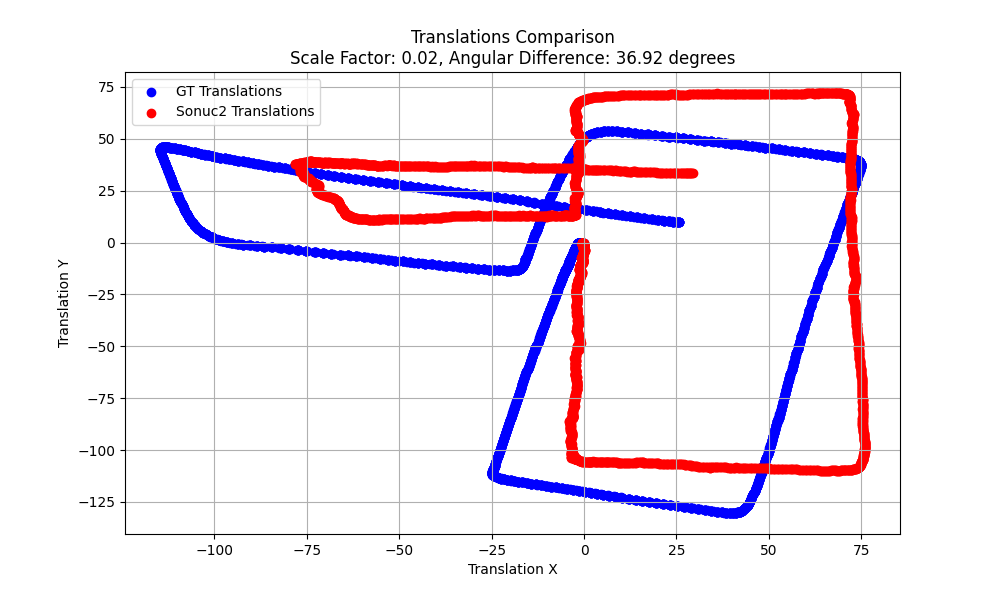
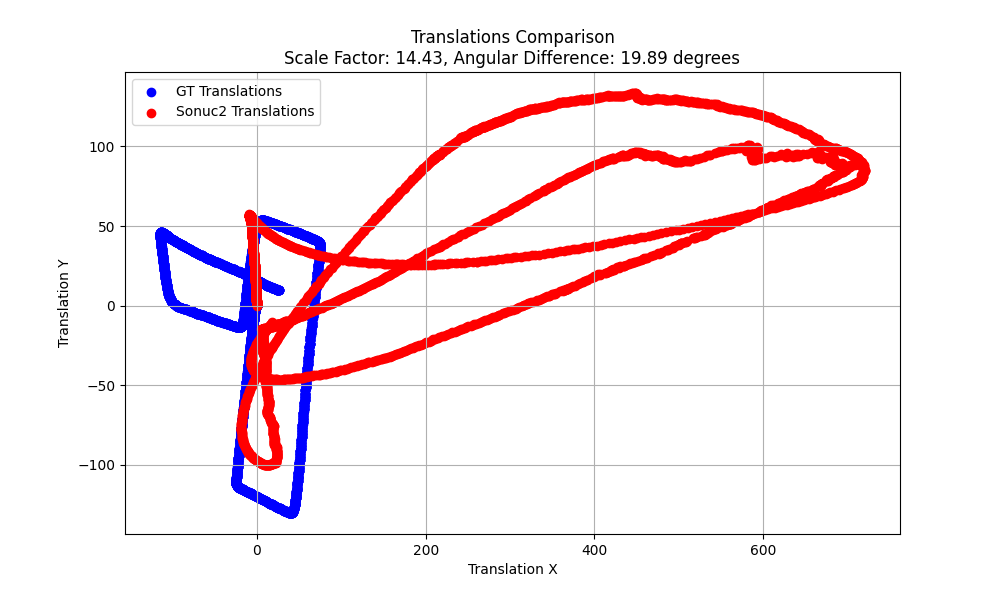
..

diff --git a/Class/Positioning.py b/Class/Positioning.py
@@ -1,21 +1,26 @@
-import os
-import time
 import cv2
 import numpy as np
-
+import joblib
 
 class CameraMovementTracker:
-    def __init__(
-            self, current_position=np.array([0.0, 0.0])):
+    def __init__(self, model_x_path='model_x.pkl', model_y_path='model_y.pkl', current_position=np.array([0.0, 0.0])):
         self.orb = cv2.ORB.create()
         self.positions = np.array([0.0, 0.0])
         self.current_position = current_position
-        self.current_angle = 39.0
+        self.current_angle = 0.0
         self.is_first_frame = True
+
+        # Model yükleme
+        self.model_x = joblib.load(model_x_path)
+        self.model_y = joblib.load(model_y_path)
+
+        self.prev_des = None
+        self.prev_kp = None
 
     def process_frame(self, frame):
         gray = cv2.cvtColor(frame, cv2.COLOR_BGR2GRAY)
         kp2, des2 = self.orb.detectAndCompute(gray, None)
+
         if hasattr(self, 'prev_des') and self.prev_des is not None:
             bf = cv2.BFMatcher(cv2.NORM_HAMMING, crossCheck=True)
             matches = bf.match(self.prev_des, des2)
@@ -34,18 +39,26 @@ class CameraMovementTracker:
                     angle_rad = np.arctan2(M[1, 0], M[0, 0])
                     self.current_angle += np.degrees(angle_rad)
 
-                    # Pozisyonları güncelle
-                    self.positions = ((self.current_position.copy() * np.array([-1, -1])) / 45.20138768)
+                    # Model tahmini
+                    predicted = self._predict_position(self.current_position)
+                    self.positions = predicted
                 else:
-                    self.positions = (self.current_position.copy() * np.array([-1, -1]) / 45.20138768)
+                    self.positions = self._predict_position(self.current_position)
             else:
-                self.positions = (self.current_position.copy() * np.array([-1, -1]) / 45.20138768)
+                self.positions = self._predict_position(self.current_position)
         else:
             self.positions = np.array([0.0, 0.0])
 
         self.prev_des = des2
         self.prev_kp = kp2
         self.is_first_frame = False
+
+    def _predict_position(self, position):
+        # Model tahmini
+        position_array = np.array([position[0], position[1]]).reshape(1, -1)
+        pred_x = self.model_x.predict(position_array)[0]
+        pred_y = self.model_y.predict(position_array)[0]
+        return np.array([pred_x, pred_y])
 
     def get_positions(self):
         if self.is_first_frame:

diff --git a/Regresyon.py b/Regresyon.py
@@ -1,0 +1,65 @@
+import pandas as pd
+import numpy as np
+from sklearn.preprocessing import PolynomialFeatures
+from sklearn.linear_model import LinearRegression
+from sklearn.pipeline import make_pipeline
+from sklearn.metrics import mean_squared_error
+import joblib  # veya import pickle
+
+# CSV dosyasını okuma (drone verisi)
+drone_data = pd.read_csv('data/GT_Translations.csv')
+
+# TXT dosyasını okuma (algoritma çıktısı)
+alg_data = []
+with open('data/Sonuc2.txt', 'r') as file:
+    lines = file.readlines()
+    for line in lines:
+        line = line.strip().strip('[]')
+        try:
+            parts = line.split(',')
+            tx = float(parts[0])
+            ty = float(parts[1].split(']')[0])
+            alg_data.append((tx, ty))
+            print(f"Translation X: {tx}, Translation Y: {ty}")
+        except (ValueError, IndexError) as e:
+            print(f"Error parsing line: {line}")
+            print(e)
+
+# DataFrame oluşturma
+alg_data = pd.DataFrame(alg_data, columns=['alg_x', 'alg_y'])
+
+# Verilerin birleştirilmesi
+merged_data = pd.merge(drone_data, alg_data, left_index=True, right_index=True)
+print(merged_data)
+
+# Model için özellikler ve hedef değişkenler
+X = merged_data[['translation_x', 'translation_y']]
+y = merged_data[['alg_x', 'alg_y']]
+
+# Polinom regresyon modeli oluşturma (derece 2)
+degree = 2
+model_x = make_pipeline(PolynomialFeatures(degree), LinearRegression())
+model_y = make_pipeline(PolynomialFeatures(degree), LinearRegression())
+
+# Modelleri eğitme
+model_x.fit(X, y['alg_x'])
+model_y.fit(X, y['alg_y'])
+
+# Tahmin yapma
+y_pred_x = model_x.predict(X)
+y_pred_y = model_y.predict(X)
+
+# Performans değerlendirmesi
+mse_x = mean_squared_error(y['alg_x'], y_pred_x)
+mse_y = mean_squared_error(y['alg_y'], y_pred_y)
+
+print(f"Mean Squared Error for alg_x: {mse_x}")
+print(f"Mean Squared Error for alg_y: {mse_y}")
+
+# Modelleri kaydetme
+joblib.dump(model_x, 'model_x.pkl')
+joblib.dump(model_y, 'model_y.pkl')
+
+# Daha sonra modelleri yüklemek için
+# model_x = joblib.load('model_x.pkl')
+# model_y = joblib.load('model_y.pkl')

diff --git a/Scale_problem.py b/Scale_problem.py
@@ -33,7 +33,7 @@ sonuc2_translations = sonuc2_translations[:min_length]
 # Calculate the scale factor
 gt_distances = np.sqrt(gt_translations['translation_x']**2 + gt_translations['translation_y']**2)
 sonuc2_distances = np.sqrt(sonuc2_translations['translation_x']**2 + sonuc2_translations['translation_y']**2)
-scale_factor = np.mean(sonuc2_distances/40.200010002181806 / gt_distances/40.200010002181806)
+scale_factor = np.mean(sonuc2_distances/(40.200010002181806* 0.0693181110729561) / gt_distances/(40.200010002181806* 0.0693181110729561))
 
 # Calculate the angular difference
 gt_angles = np.arctan2(gt_translations['translation_y'], gt_translations['translation_x'])

diff --git a/predict_for_yolo.py b/predict_for_yolo.py
@@ -23,8 +23,7 @@ def main(frames,model):
             source=image_path,
             data=train_yaml,
             save=True,
-            project='runs/detect/deneme/',
-            name="deneme"
+
         )
         positions.append((Formatter_for_yolo.formatter(results, os.path.join(path, img), name=img),img))
         end_for_time = time.time()

diff --git a/d.py b/d.py
@@ -1,0 +1,3 @@
+import torch
+print(torch.cuda.is_available())
+print(torch.cuda.get_device_name(0) if torch.cuda.is_available() else "No GPU available")
